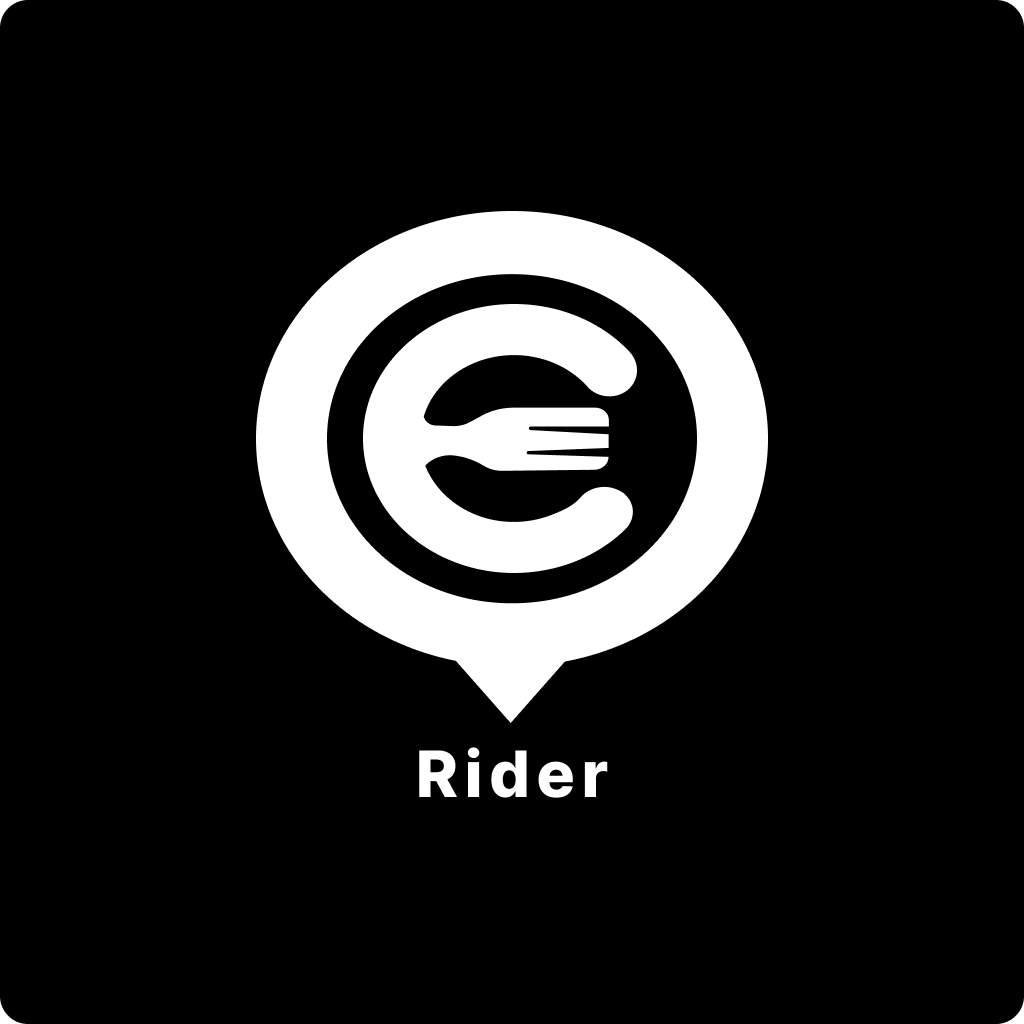
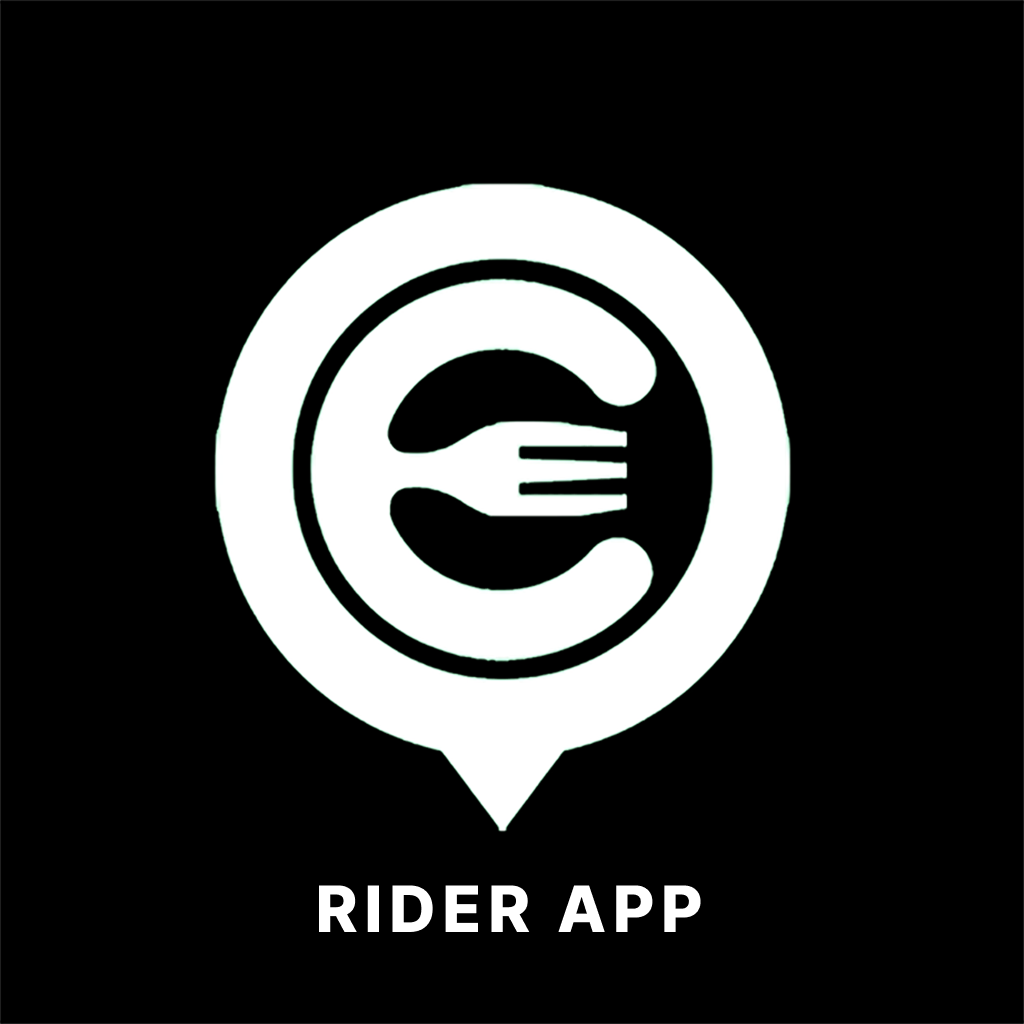
ahmad - changeset - fixed the earnings sorting - v58

diff --git a/lib/context/global/theme.context.tsx b/lib/context/global/theme.context.tsx
@@ -38,23 +38,27 @@ export default function AppThemeProvidor({
   // States
   const [currentTheme, setCurrentTheme] = useState<app_theme>("light");
   const [appTheme, setAppTheme] = useState(
-    colorScheme === "dark" ? Colors.dark
-    : colorScheme === "light" ? Colors.light
-    : Colors.light,
+    colorScheme === "dark"
+      ? Colors.dark
+      : colorScheme === "light"
+        ? Colors.light
+        : Colors.light,
   );
 
   // Methods
   async function getCurrentAppTheme() {
-    const theme = await AsyncStorage.getItem("app_theme");
-    if (theme) {
-      Appearance.setColorScheme(theme as app_theme);
-      setCurrentTheme(theme as app_theme);
-      setAppTheme(
-        theme === "light" ? Colors.light
-        : theme === "dark" ? Colors.dark
-        : Colors.light,
-      );
-    }
+    const systemTheme = Appearance.getColorScheme();
+    const localTheme = await AsyncStorage.getItem("app_theme");
+    const theme = localTheme || systemTheme || "dark";
+    Appearance.setColorScheme(theme as app_theme);
+    setCurrentTheme(theme as app_theme);
+    setAppTheme(
+      theme === "light"
+        ? Colors.light
+        : theme === "dark"
+          ? Colors.dark
+          : Colors.light,
+    );
   }
 
   // Handlers

diff --git a/lib/ui/screen-components/earning-details/view/earnings/index.tsx b/lib/ui/screen-components/earning-details/view/earnings/index.tsx
@@ -3,12 +3,10 @@ import { Text } from "react-native";
 
 // Interfaces
 import { IRiderEarningsDetailProps } from "@/lib/utils/interfaces/earning.interface";
-import { IRiderEarnings } from "@/lib/utils/interfaces/rider-earnings.interface";
 
 // Components
 import { useApptheme } from "@/lib/context/global/theme.context";
 import NoRecordFound from "@/lib/ui/useable-components/no-record-found";
-import { useEffect, useState } from "react";
 import { useTranslation } from "react-i18next";
 import { FlatList } from "react-native-gesture-handler";
 import EarningStack from "../../../earnings/view/earnings-stack";
@@ -18,34 +16,16 @@ export default function EarningsDetailStacks({
   isRiderEarningsLoading,
   setModalVisible,
 }: IRiderEarningsDetailProps) {
-  // States
-  const [recentTransaction, setRecentTransaction] =
-    useState<IRiderEarnings[]>();
-
   // Hooks
   const { appTheme } = useApptheme();
   const { t } = useTranslation();
-
-  // UseEffects
-  useEffect(() => {
-    if (riderEarningsData?.riderEarningsGraph?.earnings?.length) {
-      const sortedTransactions = [
-        ...riderEarningsData.riderEarningsGraph.earnings,
-      ].sort(
-        (a, b) =>
-          new Date(String(b?.date)).setHours(0, 0, 0, 0) -
-          new Date(String(a?.date)).setHours(23, 59, 59, 999),
-      );
-      setRecentTransaction(sortedTransactions);
-    }
-  }, [riderEarningsData?.riderEarningsGraph?.earnings?.length]);
 
   // If Loading
   if (isRiderEarningsLoading) return <NoRecordFound />;
 
   return (
     <FlatList
-      data={recentTransaction}
+      data={riderEarningsData?.riderEarningsGraph?.earnings}
       contentContainerClassName="scroll-smooth"
       keyExtractor={(_, index) => index.toString()}
       style={{ height: "55%" }}

diff --git a/lib/ui/screen-components/earning-details/view/index.tsx b/lib/ui/screen-components/earning-details/view/index.tsx
@@ -1,5 +1,3 @@
-// Core
-
 // Interfaces
 import {
   IEarningDetailsMainProps,
@@ -7,24 +5,26 @@ import {
 } from "@/lib/utils/interfaces/rider-earnings.interface";
 
 // Hooks
+import { useApptheme } from "@/lib/context/global/theme.context";
 import { useUserContext } from "@/lib/context/global/user.context";
 import { QueryResult, useQuery } from "@apollo/client";
+import { useState } from "react";
+import { useTranslation } from "react-i18next";
 
 // GraphQL
 import { RIDER_EARNINGS_GRAPH } from "@/lib/apollo/queries/earnings.query";
 
 // Components
+import EarningDetailsDateFilter from "../date-filter";
 import EarningDetailsHeader from "../header";
 import EarningsDetailStacks from "./earnings";
 
 // Skeletons
-import { useApptheme } from "@/lib/context/global/theme.context";
 import { EarningsSummaryMainLoading } from "@/lib/ui/skeletons";
-import { useState } from "react";
-import { useTranslation } from "react-i18next";
 import { showMessage } from "react-native-flash-message";
+
+// React Native Gesture
 import { GestureHandlerRootView } from "react-native-gesture-handler";
-import EarningDetailsDateFilter from "../date-filter";
 
 export default function EarningDetailsMain({
   dateFilter,

diff --git a/app/_layout.tsx b/app/_layout.tsx
@@ -70,8 +70,8 @@ function RootLayout() {
   }
 
   return (
-    <AppThemeProvidor>
-      <AnimatedSplashScreen>
+    <AnimatedSplashScreen>
+      <AppThemeProvidor>
         <ApolloProvider client={client}>
           <AuthProvider client={client}>
             <UserProvider>
@@ -92,8 +92,8 @@ function RootLayout() {
             </UserProvider>
           </AuthProvider>
         </ApolloProvider>
-      </AnimatedSplashScreen>
-    </AppThemeProvidor>
+      </AppThemeProvidor>
+    </AnimatedSplashScreen>
   );
 }
 

diff --git a/lib/ui/screen-components/earnings/view/main/index.tsx b/lib/ui/screen-components/earnings/view/main/index.tsx
@@ -87,11 +87,7 @@ export default function EarningsMain() {
     if (riderEarningsData?.riderEarningsGraph?.earnings?.length) {
       const sortedTransactions = [
         ...riderEarningsData.riderEarningsGraph.earnings,
-      ].sort(
-        (a, b) =>
-          new Date(String(b?.date)).setHours(0, 0, 0, 0) -
-          new Date(String(a?.date)).setHours(23, 59, 59, 999),
-      );
+      ];
       setRecentTransaction(sortedTransactions);
     }
   }, [riderEarningsData?.riderEarningsGraph?.earnings?.length]);
@@ -144,7 +140,7 @@ export default function EarningsMain() {
       </View>
       <View>
         <FlatList
-          data={recentTransaction}
+          data={recentTransaction?.splice(0, 5)}
           contentContainerClassName="scroll-smooth"
           keyExtractor={(_, index) => index.toString()}
           style={{ height: "55%" }}

diff --git a/lib/ui/useable-components/custom-continue-button/index.tsx b/lib/ui/useable-components/custom-continue-button/index.tsx
@@ -4,6 +4,7 @@ import { TouchableOpacityProps } from "react-native-gesture-handler";
 
 export default function CustomContinueButton({
   title,
+  style,
   ...props
 }: { title: string } & TouchableOpacityProps) {
   // Hooks
@@ -11,8 +12,8 @@ export default function CustomContinueButton({
   return (
     <TouchableOpacity
       {...props}
-      className="py-5 min-w-96 lg:px-52 rounded-[80] items-center justify-center my-auto mt-8"
-      style={{ backgroundColor: appTheme.primary }}
+      className={`py-5 min-w-72 lg:px-52 rounded-[80] items-center justify-center my-auto mt-8 ${props.className}`}
+      style={[{ backgroundColor: appTheme.primary }, style]}
     >
       <Text className="text-[16px]">{title}</Text>
     </TouchableOpacity>

diff --git a/environment.ts b/environment.ts
@@ -23,8 +23,8 @@ const getEnvVars = (env = Updates.channel) => {
   }
 
   return {
-    GRAPHQL_URL: "http://192.168.0.122:8001/graphql",
-    WS_GRAPHQL_URL: "ws://192.168.0.122:8001/graphql",
+    GRAPHQL_URL: "http://10.97.19.168:8001/graphql",
+    WS_GRAPHQL_URL: "ws://10.97.19.168:8001/graphql",
     // GRAPHQL_URL: "https://enatega-multivendor-revamp.up.railway.app/graphql",
     // WS_GRAPHQL_URL: "wss://enatega-multivendor-revamp.up.railway.app/graphql",
     SENTRY_DSN:

diff --git a/lib/hooks/useDetail.tsx b/lib/hooks/useDetail.tsx
@@ -100,7 +100,7 @@ const useDetails = (orderData: IOrder) => {
         },
         {
           query: RIDER_EARNINGS_GRAPH,
-          variables: { riderId: userId },
+          variables: { rideId: userId },
         },
         { query: RIDER_ORDERS },
       ],

diff --git a/lib/ui/useable-components/order/index.tsx b/lib/ui/useable-components/order/index.tsx
@@ -313,10 +313,10 @@ const Order = ({ order, tab }: IOrderComponentProps) => {
               </View>
             </View>
           )}
-
           {tab === "new_orders" && (
             <CustomContinueButton
               title={t("Assign me")}
+              className="w-[95%] mx-auto"
               onPress={() =>
                 mutateAssignOrder({
                   variables: { id: order?._id },

diff --git a/lib/ui/screen-components/home/orders/main/order-details/index.tsx b/lib/ui/screen-components/home/orders/main/order-details/index.tsx
@@ -514,6 +514,7 @@ export default function OrderDetailScreen() {
               {tab === "new_orders" && order.orderStatus === "ACCEPTED" && (
                 <CustomContinueButton
                   title={t("Assign me")}
+                  className="w-[15%] mx-auto"
                   onPress={() =>
                     mutateAssignOrder({
                       variables: { id: order?._id },